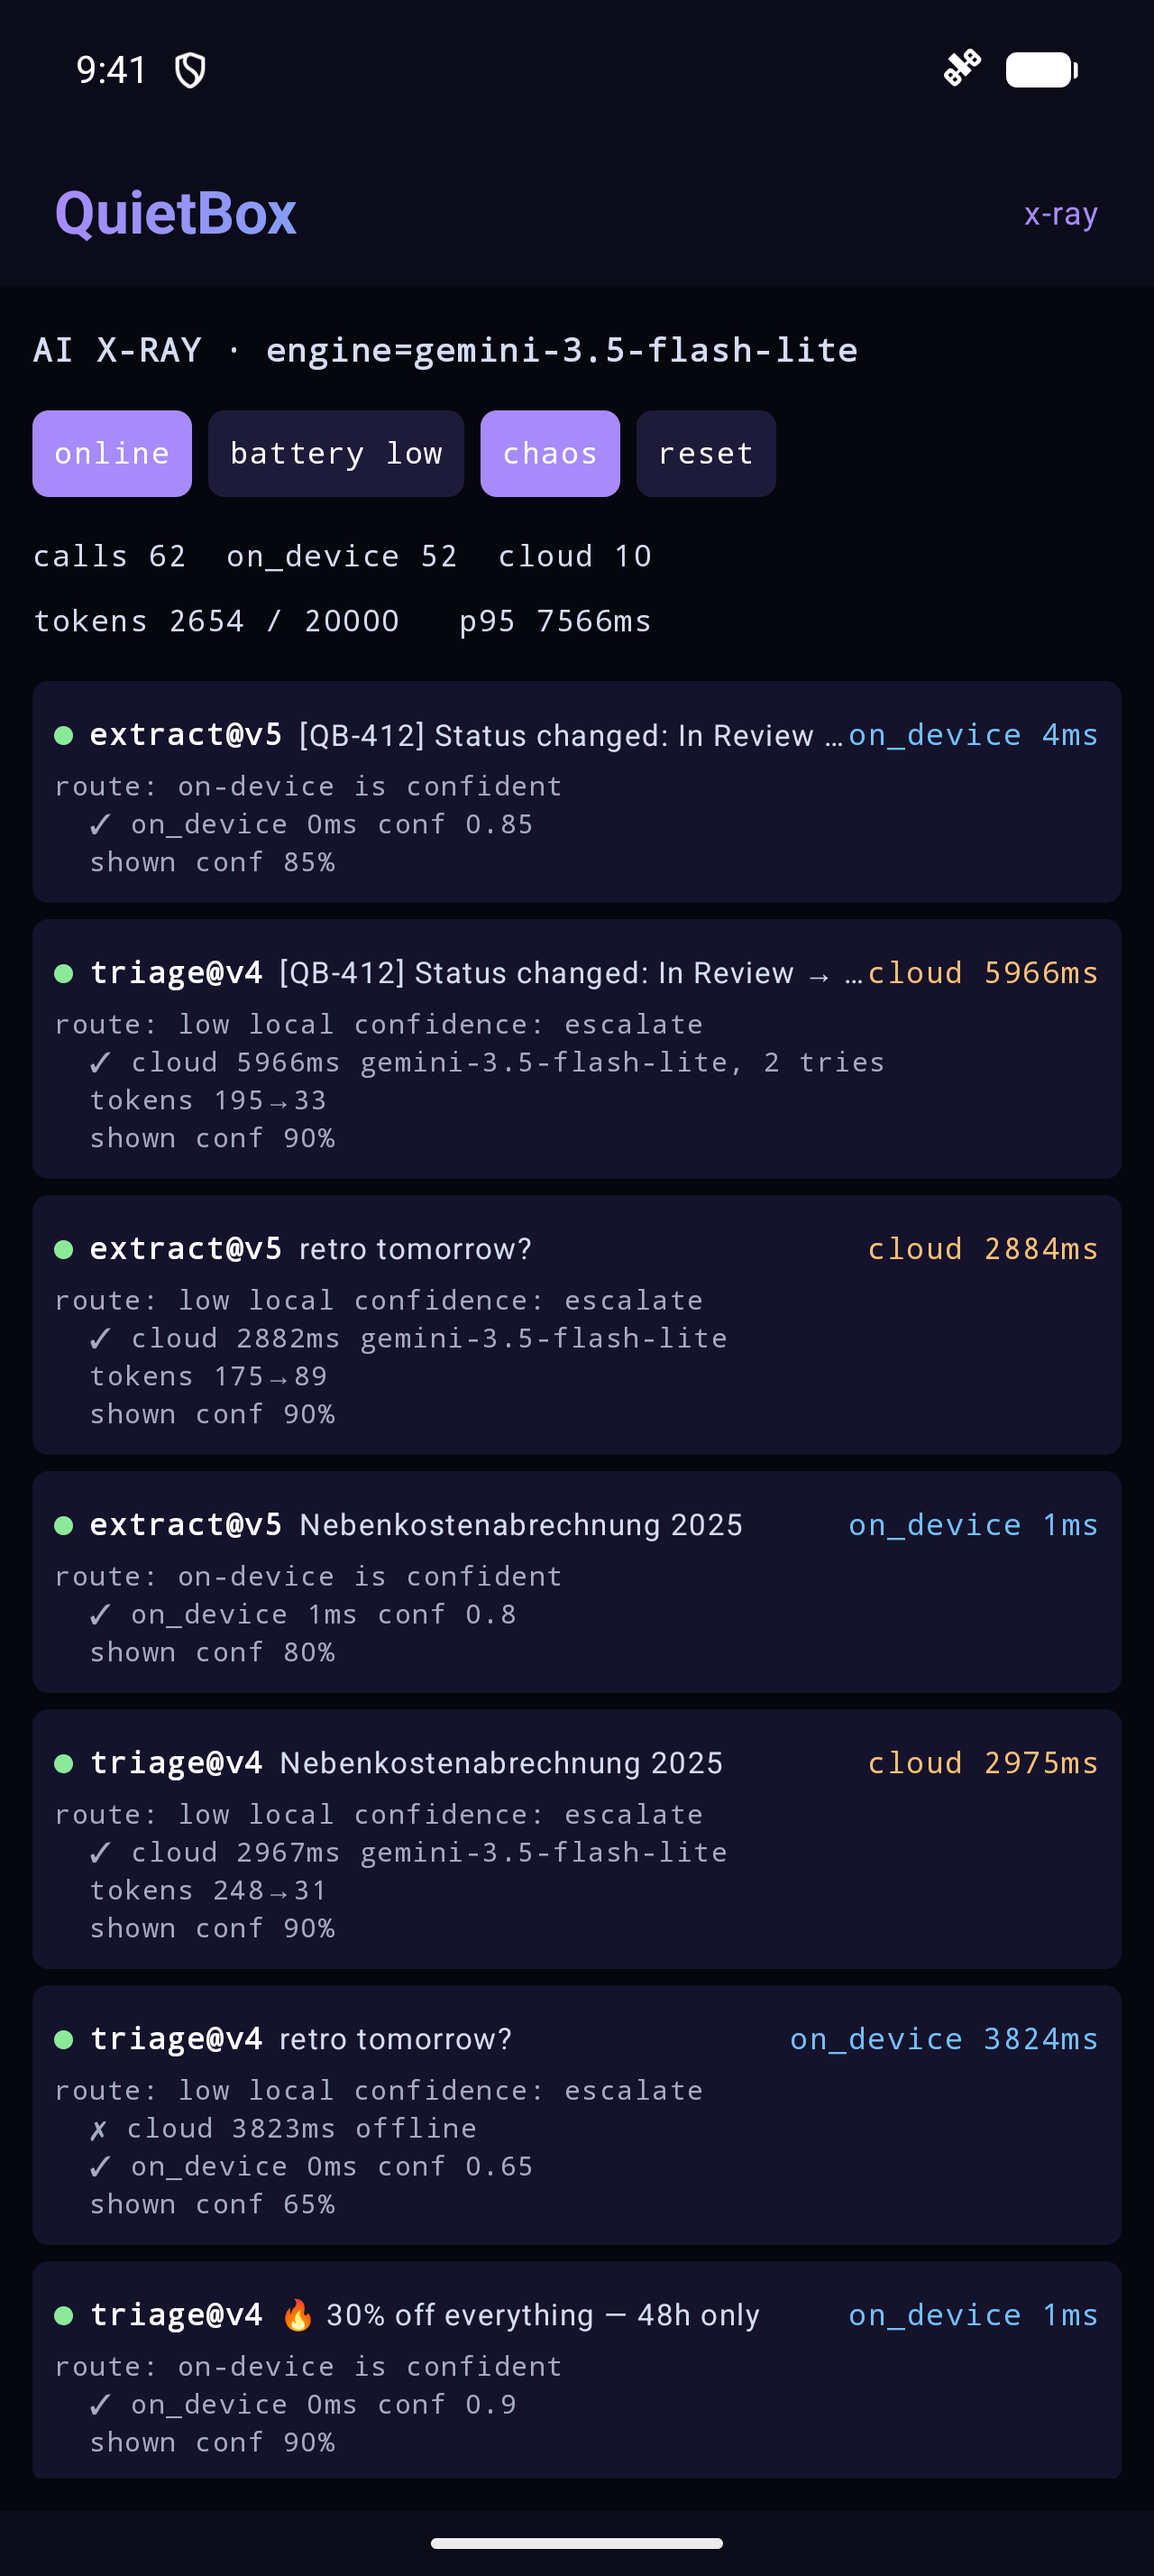
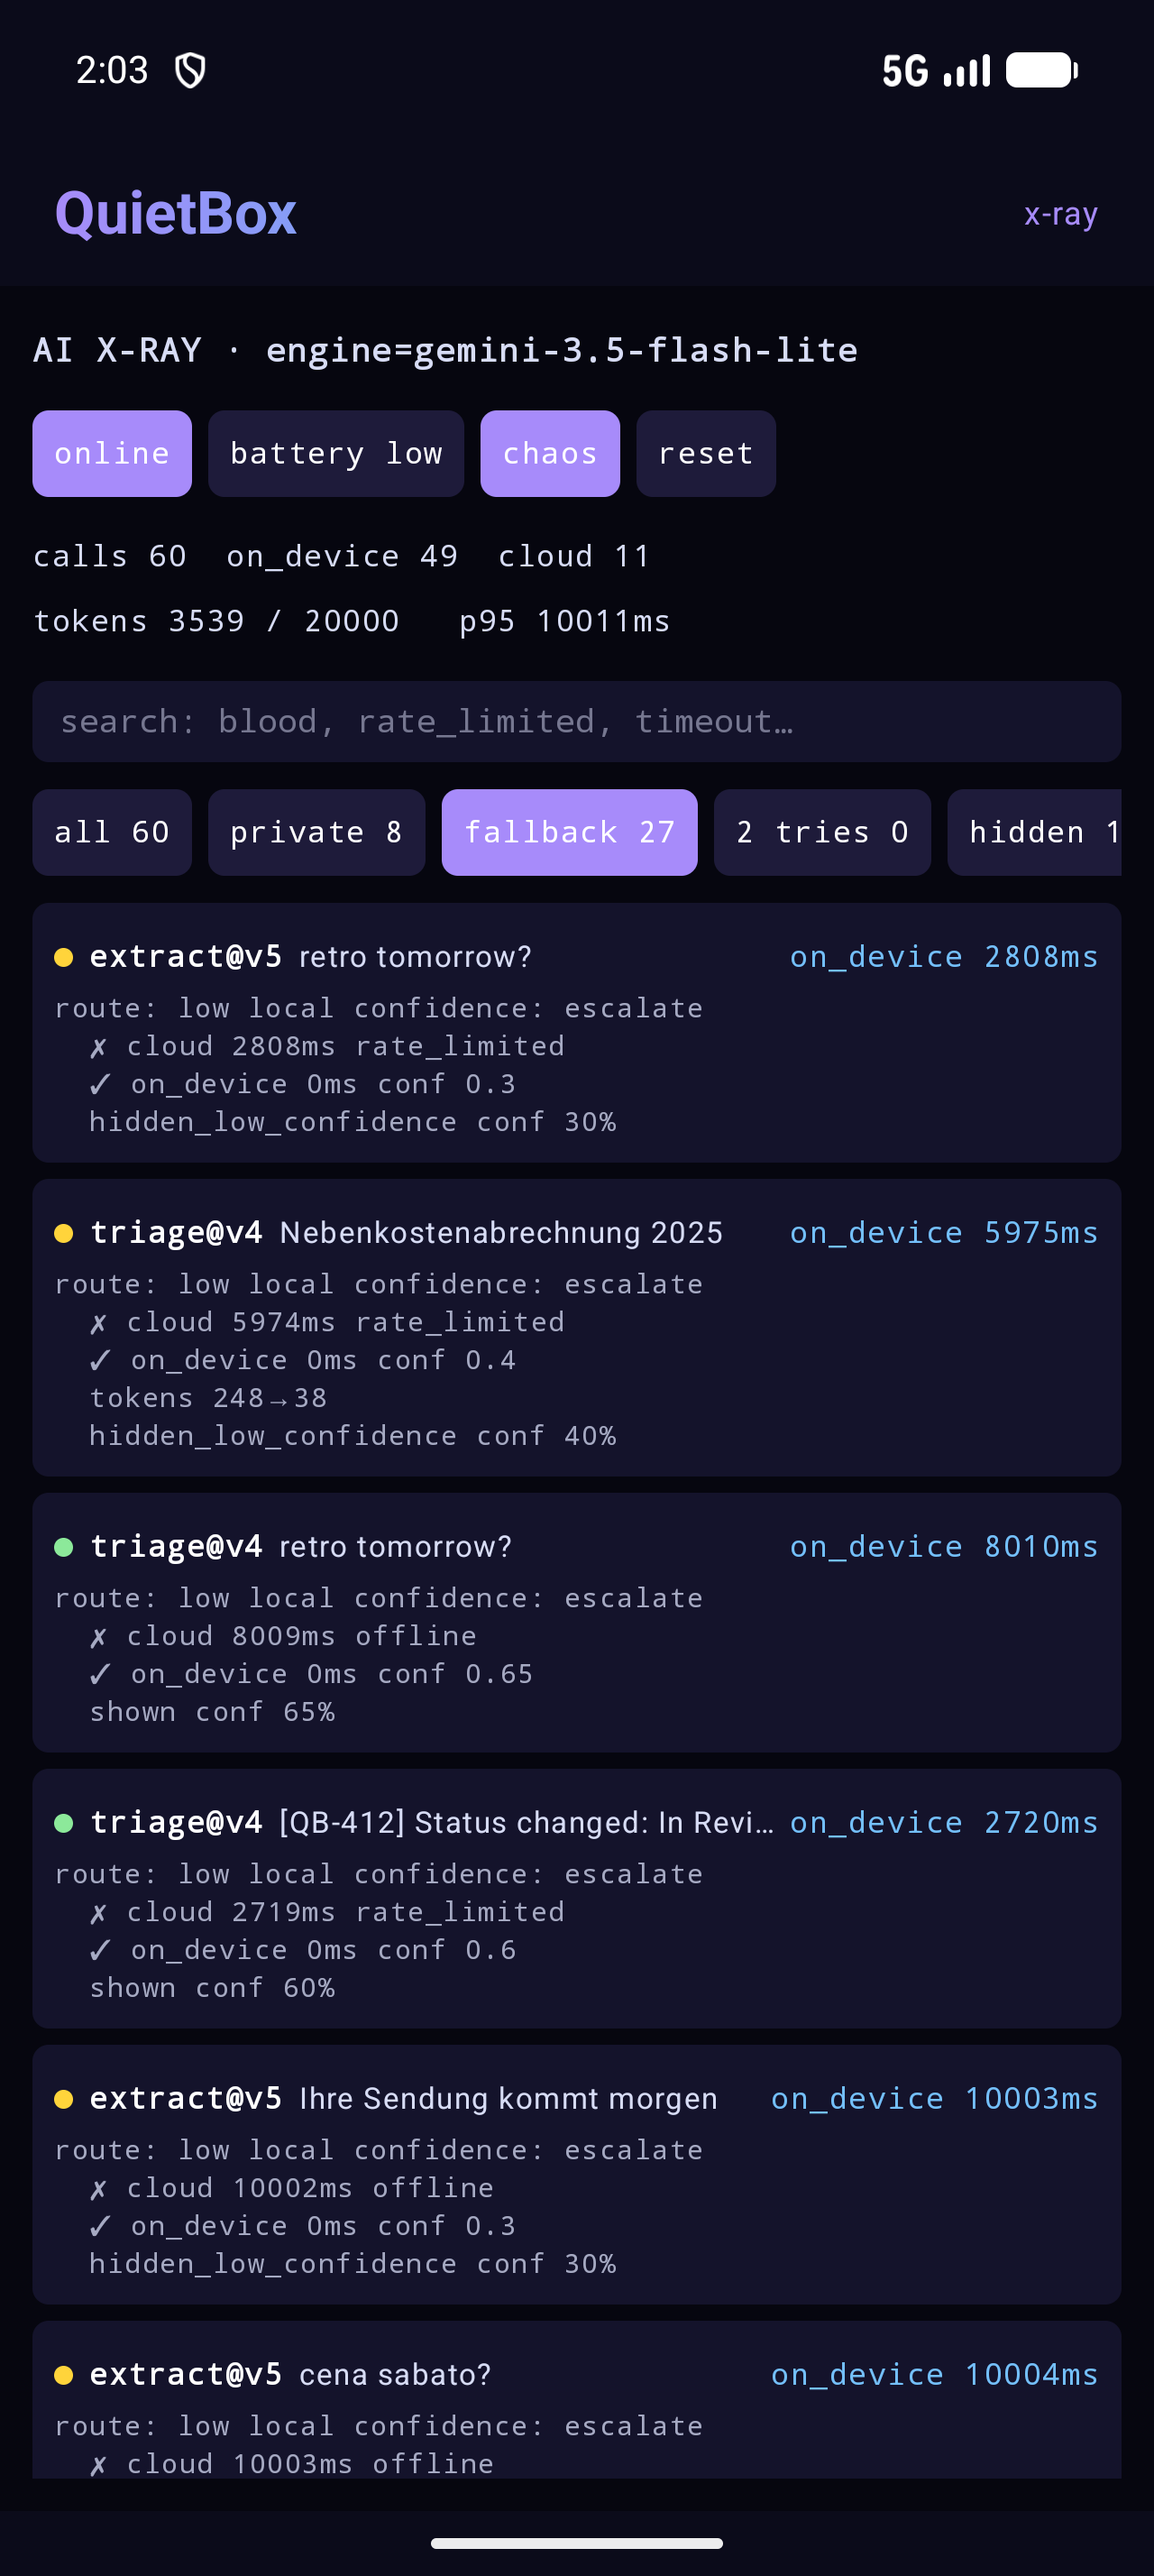
stills: new x-ray (search + lenses); QUIETBOX_STILL=chaos for the Lab 2 still

diff --git a/app/src/iosMain/kotlin/dev/quietbox/app/MainViewController.kt b/app/src/iosMain/kotlin/dev/quietbox/app/MainViewController.kt
@@ -1,9 +1,15 @@
 package dev.quietbox.app
 
+import androidx.compose.runtime.LaunchedEffect
 import androidx.compose.ui.window.ComposeUIViewController
 import dev.quietbox.app.di.FirebaseConfig
 import dev.quietbox.app.di.PlatformConfig
 import dev.quietbox.app.di.initKoin
+import dev.quietbox.app.session.AiSession
+import dev.quietbox.app.xray.XRayContract
+import dev.quietbox.app.xray.XRayViewModel
+import org.koin.compose.koinInject
+import org.koin.compose.viewmodel.koinViewModel
 import platform.Foundation.NSBundle
 import platform.Foundation.NSDictionary
 import platform.Foundation.dictionaryWithContentsOfFile
@@ -14,11 +20,20 @@ fun startQuietBox(engine: String?, proxyUrl: String?, token: String?) =
     initKoin(PlatformConfig(engine, firebaseConfig(), proxyUrl, token))
 
 /**
- * [still] puts the app in a named state for slide screenshots, e.g. "xray" or "detail:m15".
+ * [still] puts the app in a named state for slide screenshots, e.g. "xray", "chaos" or "detail:m15".
  * Simulators can't be tapped from a script, so this is how the iOS stills are made.
+ * "chaos" is the Lab 2 still: chaos on, x-ray open on the fallback lens.
  */
 fun MainViewController(still: String? = null): UIViewController = ComposeUIViewController {
-    QuietBoxApp(startWithXray = still == "xray", initialOpenId = still?.removePrefix("detail:")?.takeIf { still.startsWith("detail:") })
+    if (still == "chaos") {
+        val session = koinInject<AiSession>()
+        val xray = koinViewModel<XRayViewModel>()
+        LaunchedEffect(Unit) {
+            session.update { it.copy(chaos = true) }
+            xray.onIntent(XRayContract.Intent.Focus(XRayContract.Lens.Fallback))
+        }
+    }
+    QuietBoxApp(startWithXray = still == "xray" || still == "chaos", initialOpenId = still?.removePrefix("detail:")?.takeIf { still.startsWith("detail:") })
 }
 
 // GoogleService-Info.plist, the file the Firebase console hands out for the iOS app.
